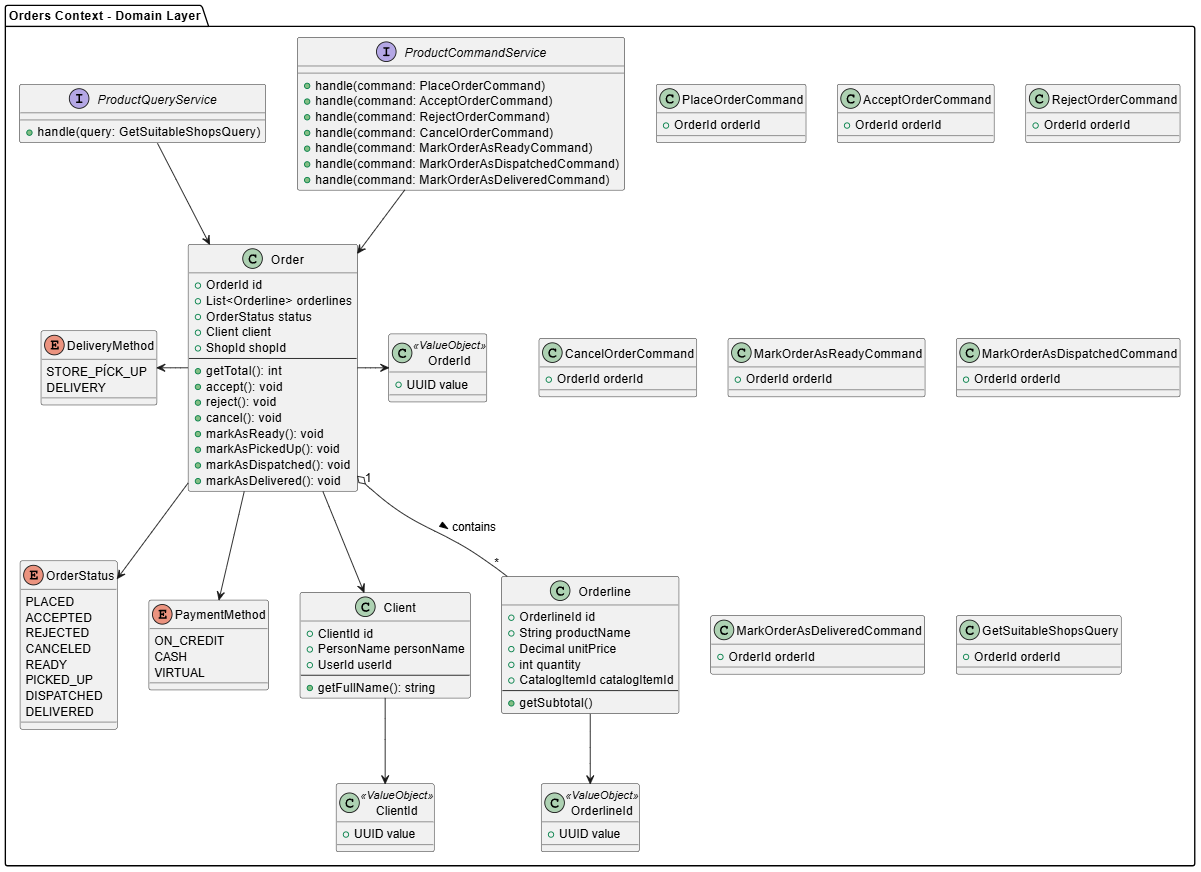
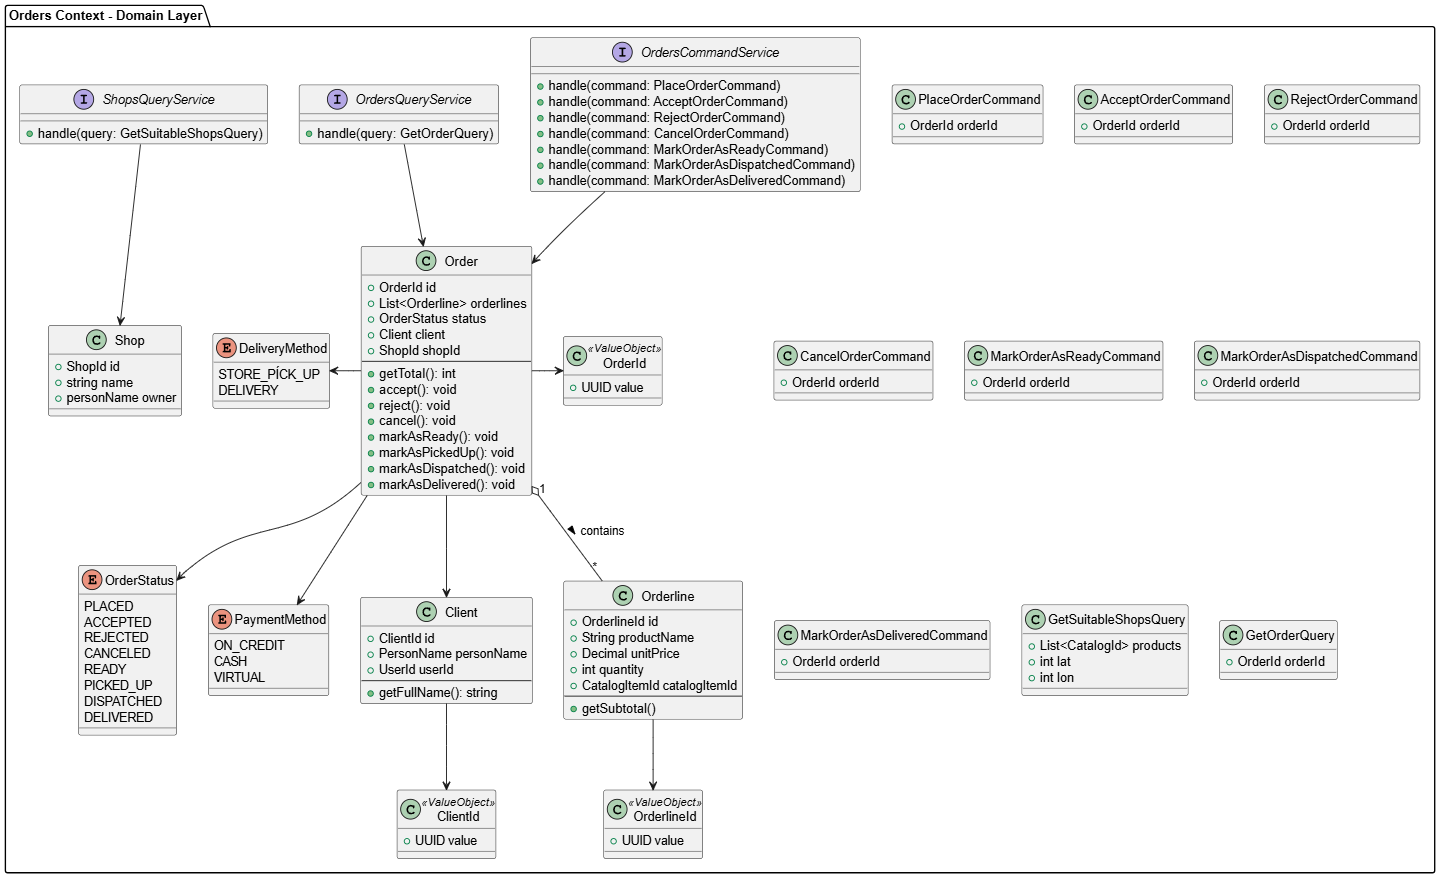
fix: amend tactical design of orders

diff --git a/sections/capitulo_2/tactical_design/orders_context/domain_layer.md b/sections/capitulo_2/tactical_design/orders_context/domain_layer.md
@@ -7,6 +7,7 @@
 | `model/valueobjects/OrderStatus.java`             | Enum que registra los estados de una orden           | Value object    |
 | `model/valueobjects/PaymentMethod.java`           | Enum que registra el método de pago para la orden    | Value object    |
 | `model/valueobjects/DeliveryMethod.java`          | Enum que registra la forma de recojo de la orden     | Value object    |
+| `model/aggregates/Shop.java`                     | Agregado secundario en Orders                              | Aggregate       |
 | `model/valueobjects/OrderId.java`                 | Identificador de la orden                            | Value object    |
 | `model/valueobjects/OrderlineId.java`             | Identificador de la linea de orden                   | Value object    |
 | `model/commands/GetSuitableShopsQuery.java`       | Record para consultar las tiendas idóneas            | Query           |
@@ -17,5 +18,6 @@
 | `model/queries/MarkOrderAsReadyCommand.java`      | Record para señalar una orden como lista             | Command         |
 | `model/queries/MarkOrderAsDispatchedCommand.java` | Record para señalar una orden como despachada        | Command         |
 | `model/queries/MarkOrderAsDeliveredCommand.java`  | Record para señalar una orden como entregada         | Command         |
-| `services/ProductQueryService.java`               | Expone operaciones de lectura sobre ordenes          | Query Service   |
-| `services/ProductCommandService.java`             | Expone operaciones CUD sobre ordenes                 | Command Service |
+| `services/OrdersQueryService.java`               | Expone operaciones de lectura sobre productos          | Query Service   |
+| `services/OrdersCommandService.java`             | Expone operaciones CUD sobre ordenes                 | Command Service |
+| `services/ShopQueryService.java`             | Expone operaciones CUD sobre ordenes                 | Command Service |

diff --git a/sections/capitulo_2/tactical_design/orders_context/application_layer.md b/sections/capitulo_2/tactical_design/orders_context/application_layer.md
@@ -4,5 +4,6 @@
 | ----------------------------------------------------------- | ---------------------------------------------------- | -------------------- |
 | `internal/commandservices/OrdersCommandServiceImpl.java` | Implementación concreta de `OrdersCommandService`  | Command Service Impl |
 | `internal/queryservices/OrdersQueryServiceImpl.java`     | Implementación concreta de `OrdersQueryService`    | Query Service Impl   |
-| `acl/InventoryProductAclImpl.java`                       | Adaptador para consultar productos de `Inventory`  | ACL Service          |
-| `acl/TrustedClientAclImpl.java`                          | Adaptador para para consultar clientes confiables y políticas de `Shop` | ACL Service |
+| `internal/acl/OrdersContextFacadeImpl.java`   | Implementación concreta de la interface expuesta a otros contextos para acceder a la lógica de este  | ACL Facade  |
+| `internal/outboundservices/acl/ExternalInventoryService.java`                       | Adaptador para consultar productos de `Inventory`  | ACL Service          |
+| `internal/outboundservices/acl/ExternalShopService.java`                          | Adaptador para para consultar clientes confiables y políticas de `Shop` | ACL Service |

diff --git a/sections/capitulo_2/tactical_design/orders_context/interface_layer.md b/sections/capitulo_2/tactical_design/orders_context/interface_layer.md
@@ -2,4 +2,9 @@
 
 | Carpeta / Archivo    | Propósito | Tipo de recurso |
 | -------------------- | --------- | --------------- |
-| `acl/OrdersAcl.java` | Interface para exponer capacidades de Orders a otros bounded contexts | ACL Facade |
+| `acl/OrdersContextFacade.java` | Interface para exponer capacidades de Orders a otros bounded contexts | ACL Facade |
+| `rest/controllers/OrdersController` | Interface para exponer capacidades de Orders mediante endpoints REST | REST Controller | 
+| `rest/assemblers/GetSuitableShopsQueryFromResourceAssembler.java`  | Convierte un `GetSuitableShopsResource` en un `GetSuitableShopsQuery`  | Resource → Query Assembler |
+| `rest/assemblers/GetOrderQueryFromResourceAssembler.java`  | Convierte un `GetOrderResource` en un `GetOrderQuery`  | Resource → Query Assembler |
+| `rest/assemblers/ShopResourceFromEntityAssembler.java`  | Convierte un `Shop` en un `ShopResource`  | Entity → Resource Assembler |
+| `rest/controllers/OrdersController` | Interface para exponer capacidades de Orders mediante endpoints REST | REST Controller | 
